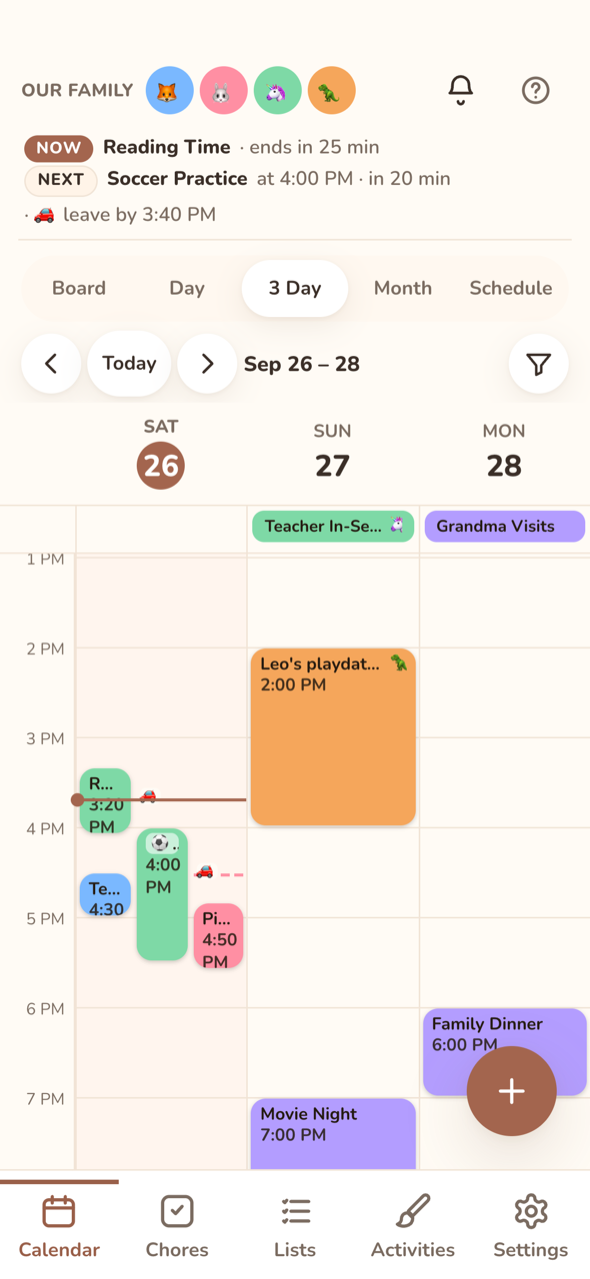
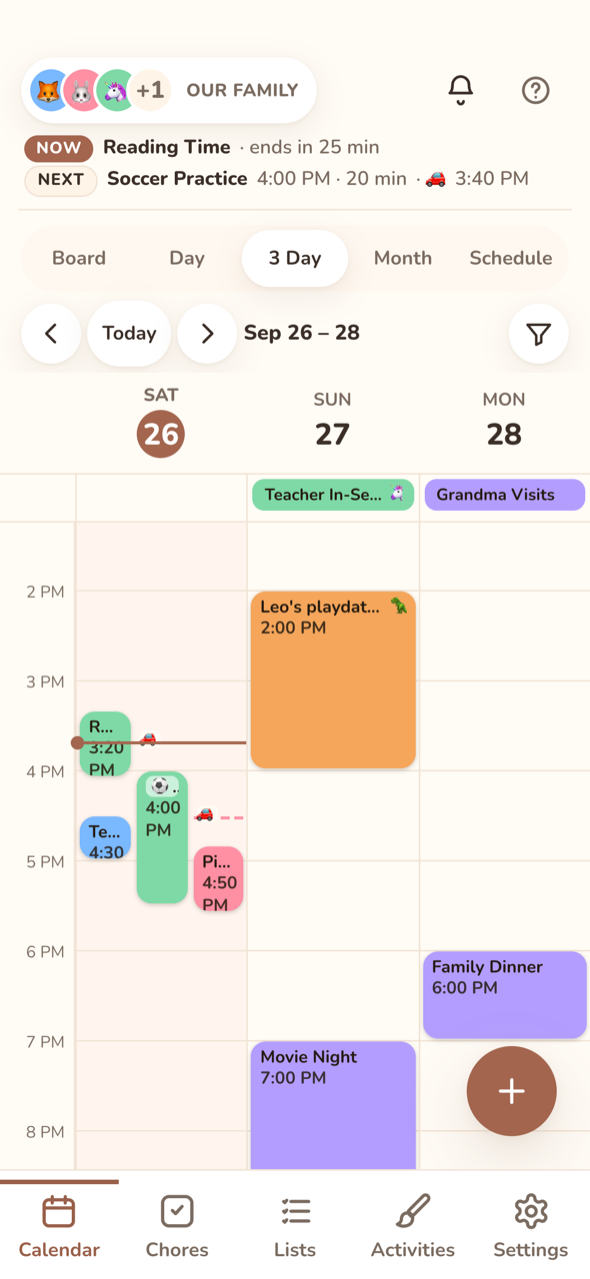
Phones: Now/Next is a fixed two-line slot on every view ('Nothing more today' when empty) so the header never shifts; the family name and a pile of faces are one button that opens a family sheet (tap a person for their snapshot, Everyone clears the filter), so any number of members fits

diff --git a/web/src/App.tsx b/web/src/App.tsx
@@ -1,7 +1,7 @@
 import { useCallback, useEffect, useMemo, useRef, useState } from 'react'
 import { encode } from 'uqr'
 import { api, clearKey, getKey, setAdminKey, setKey, usePoll, useSaveState, ApiError, MOCK } from './api.ts'
-import { AppContext } from './AppContext.tsx'
+import { AppContext, useApp } from './AppContext.tsx'
 import type { Category, Member, Settings } from './types.ts'
 import { BrushIcon, CalendarIcon, ChoreIcon, ListIcon, SettingsIcon } from './icons.tsx'
 import CalendarView from './Calendar.tsx'
@@ -22,6 +22,7 @@ import NotificationBell from './Notifications.tsx'
 import { HelpButton } from './Help.tsx'
 import Slideshow, { SAVER_PREVIEW_EVENT } from './Screensaver.tsx'
 import SnapshotSheet from './Snapshot.tsx'
+import Sheet from './Sheet.tsx'
 
 const NAV_ITEMS = [
   { key: 'calendar', href: '#/calendar', label: 'Calendar', Icon: CalendarIcon },
@@ -588,6 +589,57 @@ function MemberAvatars({ members, selectedMemberId }: { members: Member[]; selec
   )
 }
 
+/** Phone header: the family name and a pile of faces as one button. It opens a sheet listing
+ * everyone (tap a person for their snapshot), so the header is the same size for a family of
+ * three or nine and the name is never squeezed out by the avatars. */
+function FamilyButton({ name, members, selectedMemberId }: { name: string; members: Member[]; selectedMemberId: string | null }) {
+  const { setSelectedMemberId } = useApp()
+  const [open, setOpen] = useState(false)
+  const [snap, setSnap] = useState<Member | null>(null)
+  useEffect(() => {
+    const close = () => { setOpen(false); setSnap(null) }
+    window.addEventListener(IDLE_RESET_EVENT, close)
+    return () => window.removeEventListener(IDLE_RESET_EVENT, close)
+  }, [])
+  const selected = members.find(m => m.id === selectedMemberId)
+  // The filtered person always shows in the pile, then the others in order, three faces at most.
+  const shown = [...(selected ? [selected] : []), ...members.filter(m => m.id !== selectedMemberId)].slice(0, 3)
+  const more = members.length - shown.length
+  return (
+    <>
+      <button className="family-btn" aria-haspopup="dialog" aria-expanded={open} onClick={() => setOpen(true)}
+        aria-label={`${name}: ${members.length} people${selected ? `, calendar shows only ${selected.name}` : ''}`}>
+        <span className="family-pile" aria-hidden="true">
+          {shown.map(m => <span key={m.id} className={`member-avatar-sm ${m.id === selectedMemberId ? 'selected' : ''}`} style={{ background: m.color, color: inkFor(m.color) }}>{m.avatar || m.name[0]}</span>)}
+          {more > 0 && <span className="member-avatar-sm family-more">+{more}</span>}
+        </span>
+        <span className="family-name-sm">{name}</span>
+      </button>
+      {open && (
+        <Sheet title={name} onClose={() => setOpen(false)}>
+          <div className="family-list">
+            {selected && (
+              <button className="family-row" onClick={() => { setSelectedMemberId(null); setOpen(false) }}>
+                <span className="member-avatar-sm family-everyone" aria-hidden="true">👪</span>
+                <span className="family-row-name">Everyone</span>
+                <span className="family-row-sub">Show the whole family again</span>
+              </button>
+            )}
+            {members.map(m => (
+              <button key={m.id} className="family-row" aria-haspopup="dialog" onClick={() => { setOpen(false); setSnap(m) }}>
+                <span className={`member-avatar-sm ${m.id === selectedMemberId ? 'selected' : ''}`} style={{ background: m.color, color: inkFor(m.color) }} aria-hidden="true">{m.avatar || m.name[0]}</span>
+                <span className="family-row-name">{m.name}</span>
+                <span className="family-row-sub">{m.id === selectedMemberId ? 'Calendar shows only them' : `${m.pointsToday} pts today`}</span>
+              </button>
+            ))}
+          </div>
+        </Sheet>
+      )}
+      {snap && <SnapshotSheet member={members.find(m => m.id === snap.id) ?? snap} onClose={() => setSnap(null)} />}
+    </>
+  )
+}
+
 function Header({ settings, members, selectedMemberId, isAdmin }: {
   settings: Settings
   members: Member[]
@@ -608,8 +660,7 @@ function Header({ settings, members, selectedMemberId, isAdmin }: {
   if (isPhone) {
     return (
       <header className="header header-phone">
-        <span className="family-name-sm">{settings.familyName || 'Our Family'}</span>
-        <MemberAvatars members={members} selectedMemberId={selectedMemberId} />
+        <FamilyButton name={settings.familyName || 'Our Family'} members={members} selectedMemberId={selectedMemberId} />
         <div className="header-right">
           <NotificationBell isAdmin={isAdmin} />
           <HelpButton />

diff --git a/web/src/styles.css b/web/src/styles.css
@@ -1061,12 +1061,31 @@ button {
     min-height: 0;
     padding: calc(var(--safe-t) + 10px) 14px 4px;
   }
+  .family-btn {
+    display: flex; align-items: center; gap: 8px; min-width: 0; flex: 0 1 auto; min-height: 44px;
+    padding: 4px 12px 4px 4px; border: none; border-radius: 999px; background: var(--card); box-shadow: var(--shadow); color: var(--text);
+  }
+  .family-btn:active { transform: scale(0.97); }
+  .family-pile { display: flex; align-items: center; flex-shrink: 0; }
+  .family-pile .member-avatar-sm { width: 32px; height: 32px; font-size: 1rem; border: 2px solid var(--card); }
+  .family-pile .member-avatar-sm + .member-avatar-sm { margin-left: -10px; }
+  .family-pile .member-avatar-sm.selected { border-color: var(--text); z-index: 1; }
+  .family-more { background: var(--bg-alt); color: var(--text-dim); font-size: 0.6875rem; font-weight: 900; }
   .family-name-sm {
     font-size: 0.75rem; font-weight: 800; color: var(--text-dim); text-transform: uppercase; letter-spacing: 0.02em;
-    white-space: nowrap; overflow: hidden; text-overflow: ellipsis; min-width: 0; flex: 0 1 auto;
+    white-space: nowrap; overflow: hidden; text-overflow: ellipsis; min-width: 0;
   }
-  .header-phone .member-filter-row { gap: 4px; padding: 0; flex: 1; min-width: 0; overflow-x: auto; scrollbar-width: none; }
-  .header-phone .member-avatar { width: 30px; height: 30px; font-size: 0.8125rem; border-width: 2px; box-shadow: none; }
+  .family-list { display: flex; flex-direction: column; }
+  .family-row {
+    display: grid; grid-template-columns: auto 1fr; grid-template-rows: auto auto; column-gap: 12px; align-items: center; text-align: left;
+    padding: 10px 2px; min-height: 56px; border: none; border-top: 1px solid var(--border); background: none; color: var(--text);
+  }
+  .family-row:first-child { border-top: none; }
+  .family-row .member-avatar-sm { grid-row: 1 / span 2; width: 40px; height: 40px; font-size: 1.25rem; }
+  .family-row .member-avatar-sm.selected { box-shadow: 0 0 0 2px var(--text); }
+  .family-everyone { background: var(--bg-alt); }
+  .family-row-name { font-weight: 800; font-size: 1rem; }
+  .family-row-sub { font-size: 0.8125rem; font-weight: 700; color: var(--text-dim); }
 
   /* ---------- Calendar toolbar ---------- */
   .calendar-toolbar { padding: 6px 14px 4px; gap: 6px; }
@@ -1313,9 +1332,15 @@ button.toast { border: none; font-family: inherit; cursor: pointer; } /* errors:
 /* Phones: a quiet ticker under the header, not a third card that reads like another schedule row. */
 @media (max-width: 600px) {
   .now-next { margin: 0 12px 4px; padding: 4px 4px 8px; background: none; box-shadow: none; border-radius: 0; border-bottom: 1px solid var(--border); gap: 2px; }
-  .now-next-row { font-size: 0.8125rem; color: var(--text-dim); }
-  .now-next-title { color: var(--text); }
-  .now-next-meta { font-weight: 600; }
+  /* A fixed two-line slot: the rows never wrap ("at"/"in"/"leave by" drop, titles ellipsize), and
+     an empty day shows "Nothing more today" instead of collapsing, so the switcher never moves. */
+  .now-next { min-height: calc(2 * 1.3 * 0.8125rem + 2px + 12px); justify-content: center; }
+  .now-next.empty { font-size: 0.8125rem; font-weight: 700; color: var(--text-dim); padding-left: 8px; }
+  .now-next-row { font-size: 0.8125rem; color: var(--text-dim); flex-wrap: nowrap; white-space: nowrap; overflow: hidden; }
+  .now-next-title { color: var(--text); overflow: hidden; text-overflow: ellipsis; min-width: 3ch; }
+  .now-next-meta { font-weight: 600; flex-shrink: 0; }
+  .now-next-tag { flex-shrink: 0; }
+  .nn-long { display: none; }
 }
 
 .leave-by { font-size: 0.8125rem; font-weight: 700; color: var(--text-dim); }

diff --git a/web/src/NowNext.tsx b/web/src/NowNext.tsx
@@ -30,7 +30,7 @@ const timed = (evs: EventInstance[]) => evs.filter(e => !e.allDay)
 
 /** "Now: Soccer Practice · ends in 42 min" / "Next: Piano at 5:00 PM · in 1 h 10 min · leave by 4:40 PM".
  * `events` = today's timed + all-day instances; hidden when nothing is on or left today. */
-export function NowNextCard({ events, tz }: { events: EventInstance[]; tz: string }) {
+export function NowNextCard({ events, tz, placeholder }: { events: EventInstance[]; tz: string; placeholder?: boolean }) {
   const now = useNow(30000)
   const list = timed(events)
   const current = list.filter(e => Date.parse(e.start) <= now && now < Date.parse(e.end)).sort((a, b) => a.end.localeCompare(b.end))[0]
@@ -47,7 +47,9 @@ export function NowNextCard({ events, tz }: { events: EventInstance[]; tz: strin
     if (msg !== lastSaid.current) { lastSaid.current = msg; announce(msg) }
   }, [target?.what, mins]) // eslint-disable-line react-hooks/exhaustive-deps
 
-  if (!current && !next) return null
+  // On phones the card is a fixed slot (`placeholder`), so the header never shifts as the day
+  // empties out; the wall keeps hiding it when there's nothing to say.
+  if (!current && !next) return placeholder ? <section className="now-next empty" aria-label="Now and next">Nothing more today</section> : null
   return (
     <section className="now-next" aria-label="Now and next">
       {current && (
@@ -61,8 +63,8 @@ export function NowNextCard({ events, tz }: { events: EventInstance[]; tz: strin
         <div className="now-next-row">
           <span className="now-next-tag next">Next</span>
           <span className="now-next-title">{next.title}</span>
-          <span className="now-next-meta">at {formatTime(next.start, tz)} · in {durationLabel(Date.parse(next.start) - now)}</span>
-          {next.leaveAt && <span className="now-next-meta">· 🚗 leave by {formatTime(next.leaveAt, tz)}</span>}
+          <span className="now-next-meta"><span className="nn-long">at </span>{formatTime(next.start, tz)} · <span className="nn-long">in </span>{durationLabel(Date.parse(next.start) - now)}</span>
+          {next.leaveAt && <span className="now-next-meta">· 🚗 <span className="nn-long">leave by </span>{formatTime(next.leaveAt, tz)}</span>}
         </div>
       )}
     </section>

diff --git a/web/src/Calendar.tsx b/web/src/Calendar.tsx
@@ -327,7 +327,7 @@ export default function CalendarView() {
 
   return (
     <div className="content">
-      {showNowNext && !(isPhone && viewMode === 'board') && <NowNextCard events={todayEvents} tz={tz} />}
+      {showNowNext && <NowNextCard events={todayEvents} tz={tz} placeholder={isPhone} />}
       {!!device.warnings?.length && <TransitionWarnings events={todayEvents} minutes={device.warnings} sound={!!device.warningSound} settings={settings} />}
       {(!device.lockView || viewMode !== 'board' || categories.length > 0) && <div className="calendar-toolbar">
         {!device.lockView && (

diff --git a/docs/using/snapshot.md b/docs/using/snapshot.md
@@ -1,6 +1,6 @@
 # Daily & weekly snapshot
 
-Tap a family member's avatar in the header to see **their day** at a glance. Switch to **Week** at the top for the next 7 days.
+Tap a family member's avatar in the header (on a phone, tap the family button, then the person) to see **their day** at a glance. Switch to **Week** at the top for the next 7 days.
 
 ## Day
 
@@ -21,7 +21,7 @@ A row for each of the next 7 days with its weather emoji and high/low, then that
 ## Taps
 
 * An event opens it in the calendar. An item opens its list. A chore line opens Chores.
-* **Show only Maya on the calendar** (at the bottom) filters the calendar and chores to that person, like tapping an avatar used to. The avatar keeps its ring while the filter is on. Not shown on a display pinned to one member.
+* **Show only Maya on the calendar** (at the bottom) filters the calendar and chores to that person, like tapping an avatar used to. The avatar keeps its ring while the filter is on, and on a phone the family sheet gets an **Everyone** row to clear it. Not shown on a display pinned to one member.
 * An idle wall closes the snapshot with everything else.
 
 ## Assigning items to someone

diff --git a/docs/using/calendar.md b/docs/using/calendar.md
@@ -28,7 +28,7 @@ Every device opens on **Board**; the view switcher runs Board, Day, Week (3 Day 
 
 ![Board view in dark mode](../screenshots/ipad-board-dark.png)
 
-The board carries its own large clock and date, so while it's showing the header keeps only the family name, avatars and buttons.
+The board carries its own large clock and date, so while it's showing the wall's header keeps only the family name, avatars and buttons. On a phone the header is always one row: the family button (name and a pile of faces, which opens the family sheet), the bell and Help, with the Now / Next line beneath it on every view.
 
 **Board** turns the calendar into a bulletin board to read from across the room. It always shows today onward, so it has no ◀ ▶ or swipe paging. Its cards:
 
